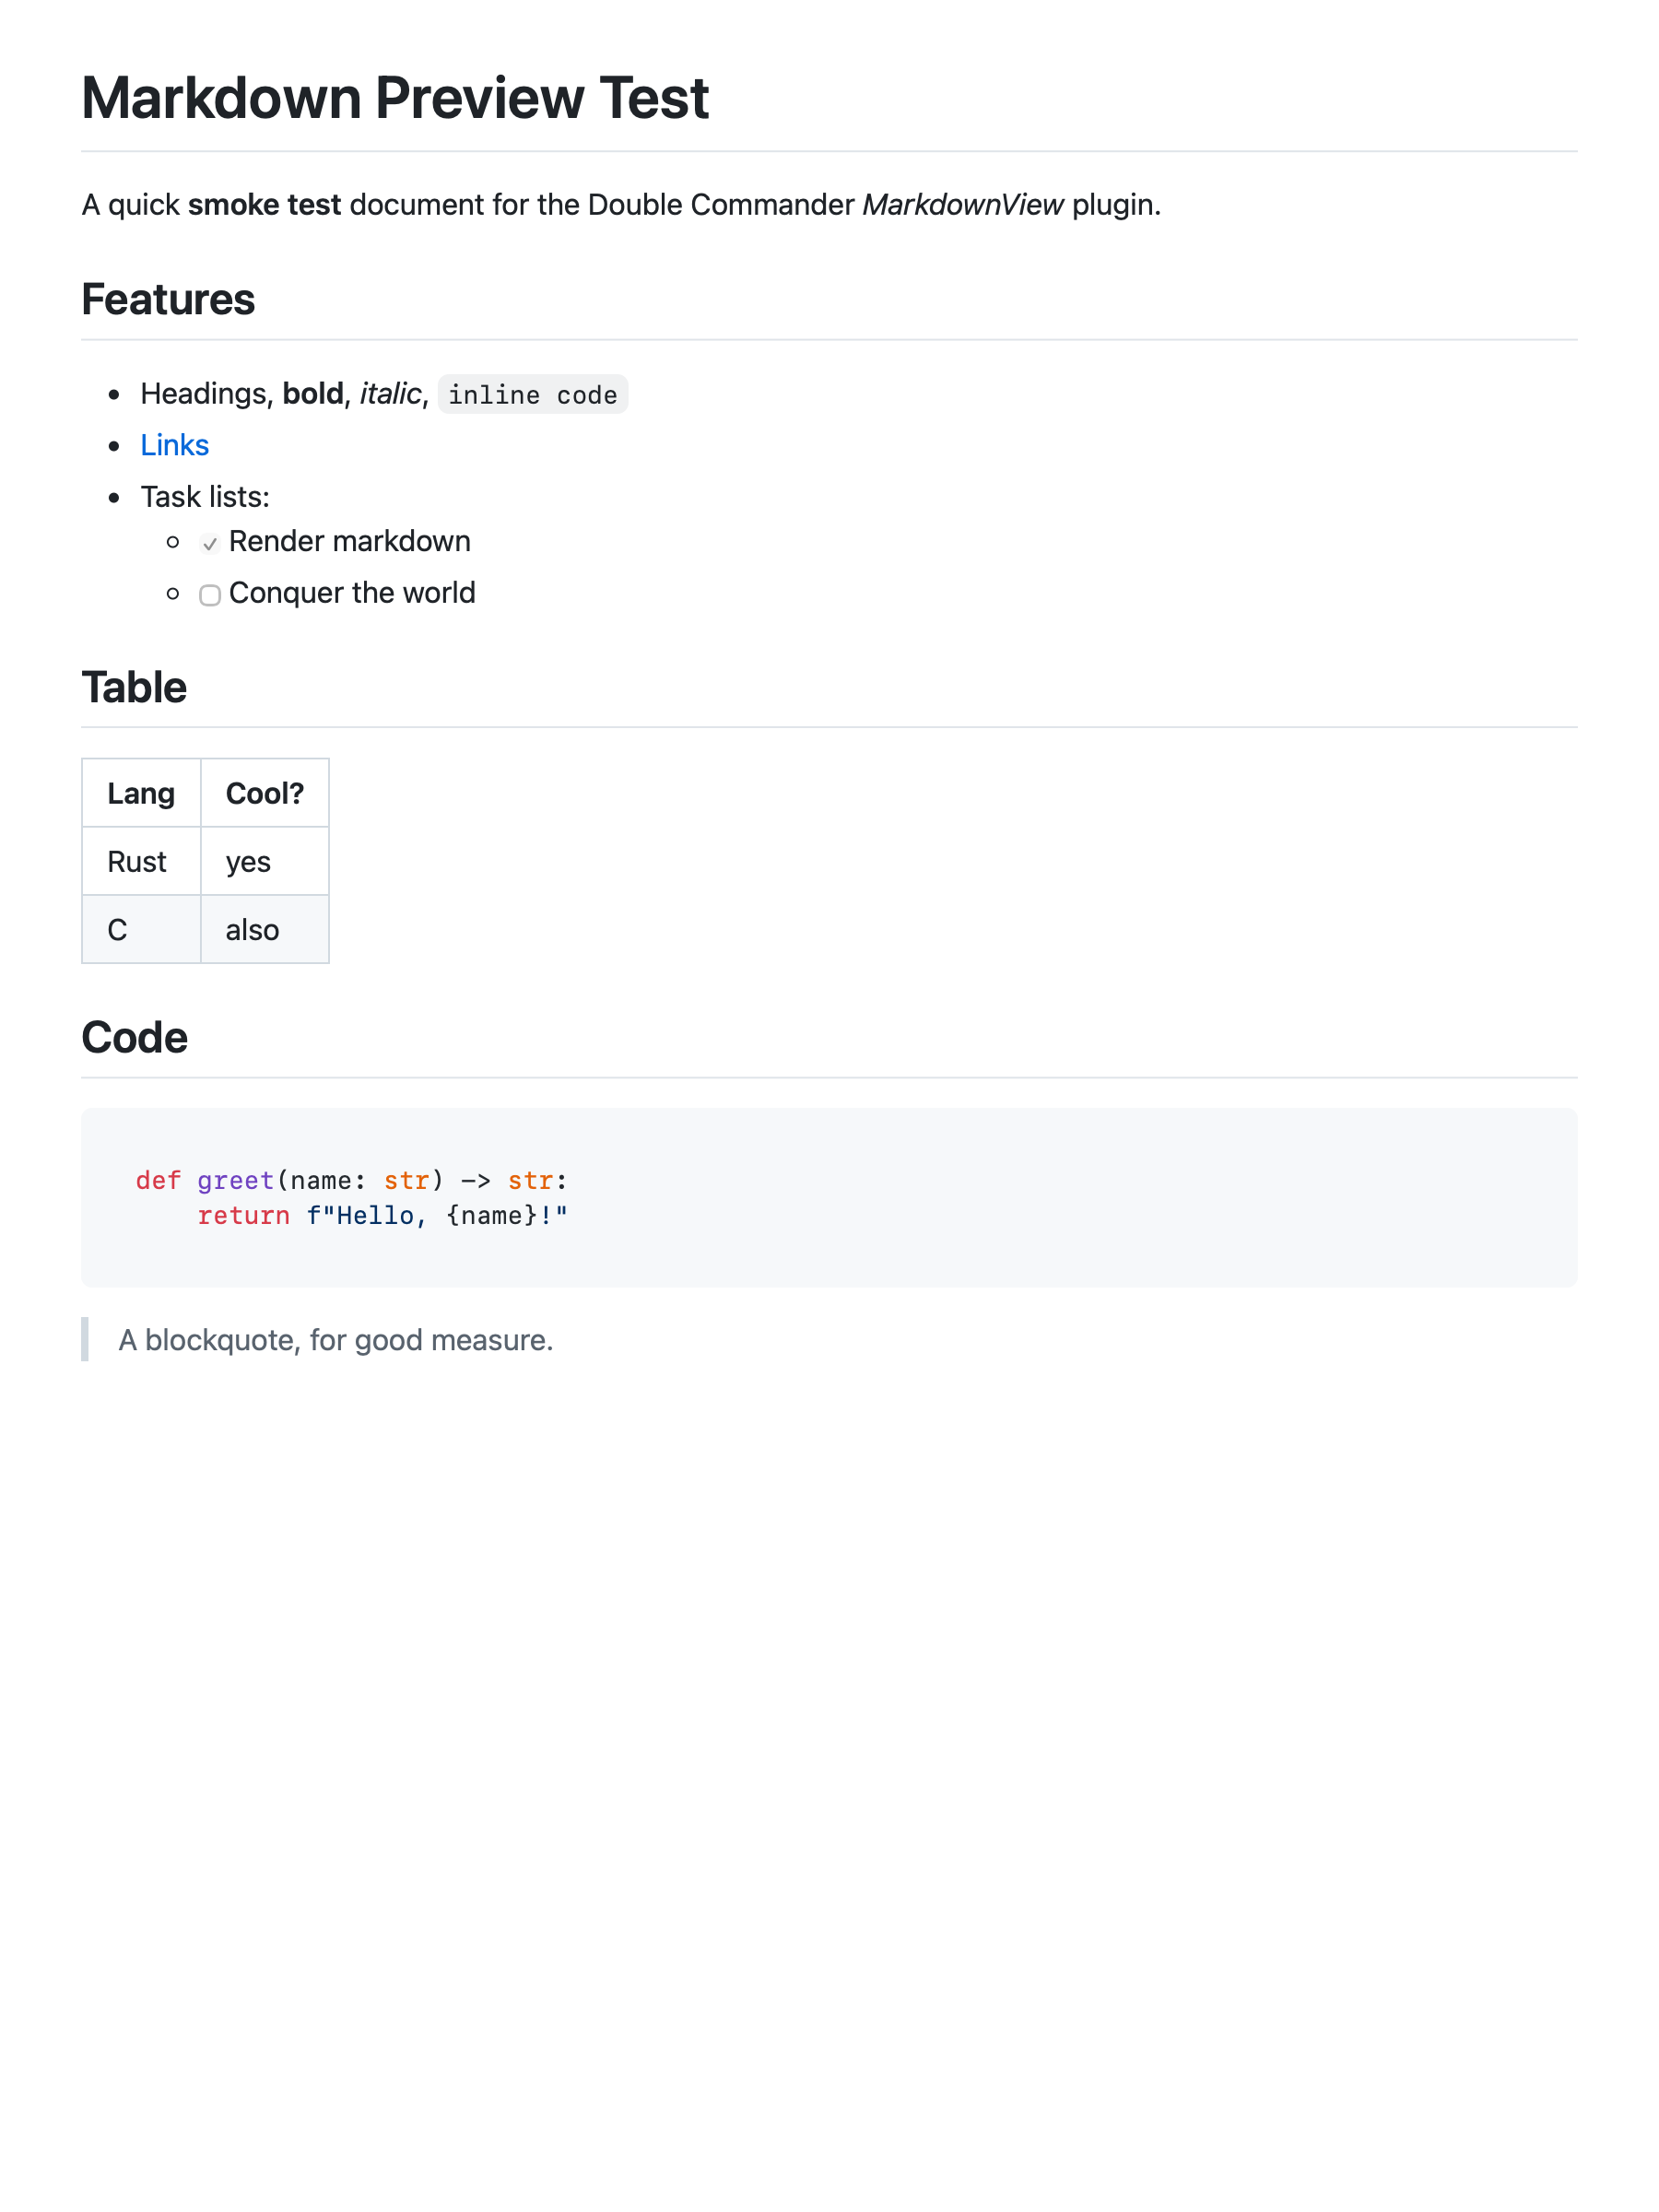
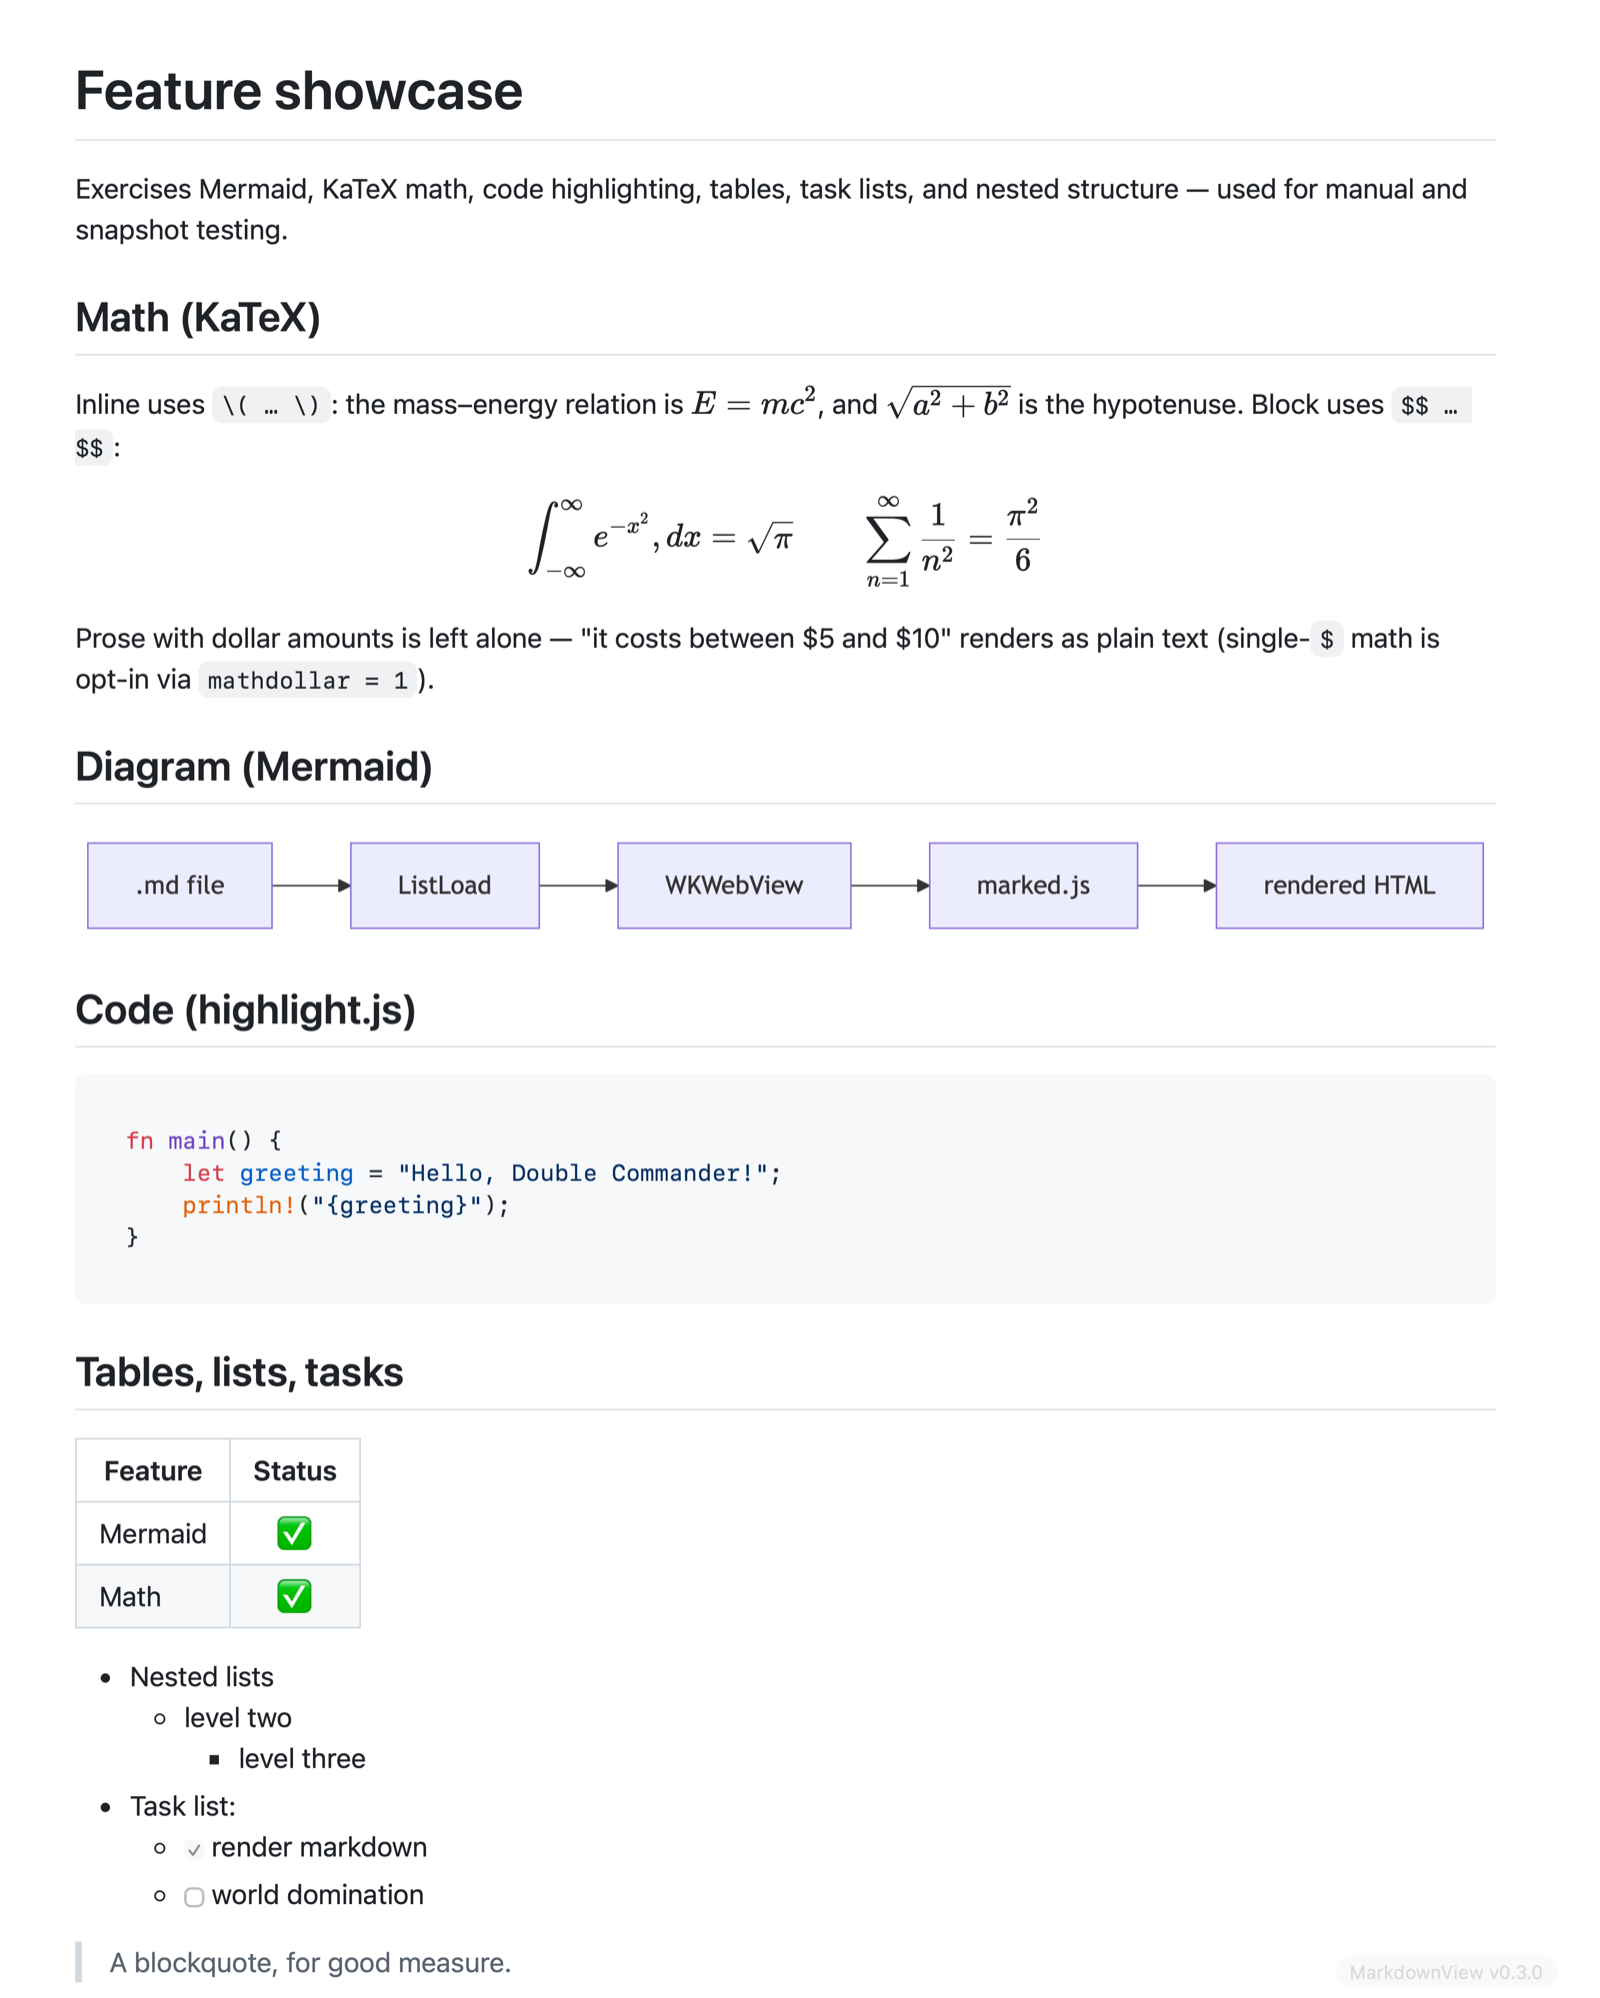
Landing page: feature-rich hero (Mermaid + KaTeX), WebP, SEO files
- Replace the minimal smoke-test screenshot with an authentic render of the
  feature showcase (Mermaid diagram, KaTeX math, highlighted code, tables),
  tightly framed (no wasted space), captured at 2x.
- Serve the hero as WebP (81 KB) with a PNG fallback via <picture>; keep PNG as
  the og:image for social scrapers.
- SEO per Google guidance: JSON-LD SoftwareApplication, sitemap.xml, robots.txt,
  favicon, explicit image width/height (CLS), descriptive alt text.

diff --git a/index.html b/index.html
@@ -4,67 +4,95 @@
 <meta charset="utf-8">
 <meta name="viewport" content="width=device-width, initial-scale=1">
 <title>Double Commander plugins for macOS — Markdown viewer &amp; media-info columns</title>
-<meta name="description" content="Free, native macOS plugins for Double Commander: a Markdown preview/viewer plugin (WLX) that renders .md files in the viewer, and a media-info content plugin (WDX) that shows image &amp; video resolution, duration, and PDF page count as custom columns. Universal binaries, no dependencies, open source.">
+<meta name="description" content="Free, native macOS plugins for Double Commander: a Markdown preview/viewer plugin (WLX) that renders .md files — with Mermaid diagrams &amp; KaTeX math — in the viewer, and a media-info content plugin (WDX) that shows image &amp; video resolution, duration, and PDF page count as custom columns. Universal binaries, no dependencies, open source.">
 <link rel="canonical" href="https://nikolaisachok.github.io/DC-plugins/">
+<link rel="icon" href="favicon.svg" type="image/svg+xml">
 <meta property="og:type" content="website">
 <meta property="og:title" content="Double Commander plugins for macOS — Markdown viewer &amp; media-info columns">
-<meta property="og:description" content="Native macOS plugins for Double Commander: a Markdown viewer plugin and a media-info plugin showing image/video resolution &amp; duration as columns. Universal, open source, no dependencies.">
+<meta property="og:description" content="Native macOS plugins for Double Commander: a Markdown viewer (Mermaid + KaTeX) and a media-info plugin showing image/video resolution &amp; duration as columns. Universal, open source, no dependencies.">
 <meta property="og:url" content="https://nikolaisachok.github.io/DC-plugins/">
 <meta property="og:image" content="https://nikolaisachok.github.io/DC-plugins/assets/screenshot-markdown.png">
 <meta name="twitter:card" content="summary_large_image">
+<script type="application/ld+json">
+{
+  "@context": "https://schema.org",
+  "@type": "SoftwareApplication",
+  "name": "Double Commander macOS plugins — MarkdownView & MediaInfo",
+  "operatingSystem": "macOS 11+",
+  "applicationCategory": "DeveloperApplication",
+  "url": "https://nikolaisachok.github.io/DC-plugins/",
+  "downloadUrl": "https://github.com/NikolaiSachok/DC-plugins/releases",
+  "softwareHelp": "https://github.com/NikolaiSachok/DC-plugins/wiki",
+  "license": "https://opensource.org/licenses/MIT",
+  "description": "Native macOS plugins for Double Commander: a Markdown preview/viewer plugin (WLX) with Mermaid diagrams and KaTeX math, and a media-info content plugin (WDX) showing image and video resolution, duration, and PDF page count as custom columns.",
+  "offers": { "@type": "Offer", "price": "0", "priceCurrency": "USD" }
+}
+</script>
 <style>
   :root { --bg:#0d1117; --panel:#161b22; --border:#30363d; --fg:#e6edf3; --muted:#9da7b3; --accent:#58a6ff; --code:#1f2630; }
   * { box-sizing: border-box; }
   body { margin:0; background:var(--bg); color:var(--fg); font:16px/1.6 -apple-system,BlinkMacSystemFont,"Segoe UI",Roboto,Helvetica,Arial,sans-serif; }
   a { color:var(--accent); text-decoration:none; } a:hover { text-decoration:underline; }
-  .wrap { max-width:880px; margin:0 auto; padding:0 20px; }
-  header { padding:64px 0 32px; text-align:center; border-bottom:1px solid var(--border); }
-  h1 { font-size:2.2rem; line-height:1.2; margin:0 0 12px; }
-  h1 .sub { display:block; font-size:1.05rem; font-weight:400; color:var(--muted); margin-top:10px; }
-  h2 { font-size:1.5rem; margin:48px 0 12px; }
-  h3 { margin:24px 0 6px; }
-  .badges { margin-top:20px; }
-  .badges a { display:inline-block; margin:4px 6px; padding:8px 16px; border:1px solid var(--border); border-radius:8px; background:var(--panel); font-size:.95rem; }
+  .wrap { max-width:900px; margin:0 auto; padding:0 20px; }
+  header { padding:72px 0 8px; text-align:center;
+           background:radial-gradient(1200px 380px at 50% -120px, rgba(88,166,255,.16), transparent 70%); }
+  h1 { font-size:2.3rem; line-height:1.18; margin:0 0 14px; letter-spacing:-.01em; }
+  h1 .sub { display:block; font-size:1.05rem; font-weight:400; color:var(--muted); margin:14px auto 0; max-width:680px; }
+  h2 { font-size:1.5rem; margin:52px 0 12px; }
+  .badges { margin-top:24px; }
+  .badges a { display:inline-block; margin:5px 6px; padding:9px 18px; border:1px solid var(--border); border-radius:9px; background:var(--panel); font-size:.95rem; }
   .badges a.primary { background:var(--accent); color:#08111f; border-color:var(--accent); font-weight:600; }
-  .card { background:var(--panel); border:1px solid var(--border); border-radius:12px; padding:24px; margin:20px 0; }
-  .tag { display:inline-block; font-size:.75rem; letter-spacing:.04em; text-transform:uppercase; color:var(--muted); border:1px solid var(--border); border-radius:6px; padding:2px 8px; margin-left:8px; vertical-align:middle; }
-  ul { padding-left:20px; } li { margin:4px 0; }
+  figure.hero { margin:40px auto 8px; max-width:560px; text-align:center; }
+  figure.hero img { width:100%; border:1px solid var(--border); border-radius:12px;
+                    box-shadow:0 16px 50px rgba(0,0,0,.55); background:#fff; display:block; }
+  figure.hero figcaption { color:var(--muted); font-size:.85rem; margin-top:12px; }
+  .card { background:var(--panel); border:1px solid var(--border); border-radius:12px; padding:24px; margin:18px 0; }
+  .tag { display:inline-block; font-size:.72rem; letter-spacing:.05em; text-transform:uppercase; color:var(--muted); border:1px solid var(--border); border-radius:6px; padding:2px 8px; margin-left:8px; vertical-align:middle; }
+  ul { padding-left:20px; } li { margin:5px 0; }
   pre { background:var(--code); border:1px solid var(--border); border-radius:8px; padding:14px 16px; overflow:auto; }
   code { font:14px/1.5 ui-monospace,SFMono-Regular,Menlo,Consolas,monospace; }
   p code, li code { background:var(--code); padding:1px 6px; border-radius:5px; }
-  img.shot { width:100%; border:1px solid var(--border); border-radius:10px; margin-top:14px; }
   .muted { color:var(--muted); }
-  footer { margin:56px 0 40px; padding-top:24px; border-top:1px solid var(--border); color:var(--muted); font-size:.9rem; text-align:center; }
-  .cols { font:13px/1.5 ui-monospace,Menlo,monospace; background:var(--code); border:1px solid var(--border); border-radius:8px; padding:14px; overflow:auto; white-space:pre; color:var(--fg); }
+  .cols { font:13px/1.6 ui-monospace,Menlo,monospace; background:var(--code); border:1px solid var(--border); border-radius:8px; padding:14px 16px; overflow:auto; white-space:pre; color:var(--fg); }
+  footer { margin:60px 0 44px; padding-top:24px; border-top:1px solid var(--border); color:var(--muted); font-size:.9rem; text-align:center; }
 </style>
 </head>
 <body>
 <header>
   <div class="wrap">
     <h1>Double Commander plugins for macOS
-      <span class="sub">A native <strong>Markdown viewer</strong> plugin and a <strong>media-info</strong> plugin (image &amp; video resolution, duration, PDF page count) for Double Commander — universal, open source, no dependencies.</span>
+      <span class="sub">A native <strong>Markdown viewer</strong> plugin (with Mermaid diagrams &amp; KaTeX math) and a <strong>media-info</strong> plugin that shows image &amp; video resolution, duration, and PDF page count — universal, open source, no dependencies.</span>
     </h1>
     <div class="badges">
       <a class="primary" href="https://github.com/NikolaiSachok/DC-plugins/releases">Download latest release</a>
       <a href="https://github.com/NikolaiSachok/DC-plugins">View on GitHub</a>
-      <a href="https://github.com/NikolaiSachok/DC-plugins/wiki">Documentation / wiki</a>
+      <a href="https://github.com/NikolaiSachok/DC-plugins/wiki">Documentation</a>
     </div>
   </div>
 </header>
 
 <main class="wrap">
+  <figure class="hero">
+    <picture>
+      <source srcset="assets/screenshot-markdown.webp" type="image/webp">
+      <img src="assets/screenshot-markdown.png" width="1600" height="1998"
+           loading="eager" decoding="async"
+           alt="A Markdown file rendered by the MarkdownView plugin in Double Commander on macOS — showing KaTeX math, a Mermaid flowchart, syntax-highlighted code, and tables">
+    </picture>
+    <figcaption>Real output: <code>.md</code> rendered in Double Commander's viewer — KaTeX math, a Mermaid diagram, highlighted code, and tables, all from one plugin.</figcaption>
+  </figure>
+
   <p>Two small, fast, native plugins that fill real gaps in <a href="https://doublecmd.sourceforge.io/">Double Commander</a> on macOS. Each is a universal binary (Apple Silicon + Intel), built with no third-party libraries and no network access, and tested against the real built artifact. They use the Total Commander plugin ABI, so they load straight into Double Commander.</p>
 
   <h2>MarkdownView <span class="tag">WLX · lister</span></h2>
   <div class="card">
-    <p><strong>A Markdown preview/viewer plugin for Double Commander on macOS.</strong> Select any <code>.md</code> file and press <strong>F3</strong> — it opens beautifully rendered instead of as raw text, and you can switch back to plain text any time.</p>
+    <p><strong>A Markdown preview/viewer plugin for Double Commander on macOS.</strong> Select any <code>.md</code> file and press <strong>F3</strong> — it opens beautifully rendered instead of as raw text (as shown above), and you can switch back to plain text any time.</p>
     <ul>
       <li>GitHub-style rendering, syntax highlighting, tables &amp; task lists (GitHub Flavored Markdown)</li>
       <li><strong>Mermaid diagrams</strong> and <strong>KaTeX math</strong> (loaded only for files that use them)</li>
       <li>Automatic light/dark theming; relative images; scroll position preserved across files</li>
       <li>Content is sanitized (DOMPurify) before rendering — safe on untrusted files</li>
     </ul>
-    <img class="shot" src="assets/screenshot-markdown.png" alt="A Markdown file rendered in Double Commander's viewer on macOS by the MarkdownView WLX plugin">
   </div>
 
   <h2>MediaInfo <span class="tag">WDX · content</span></h2>